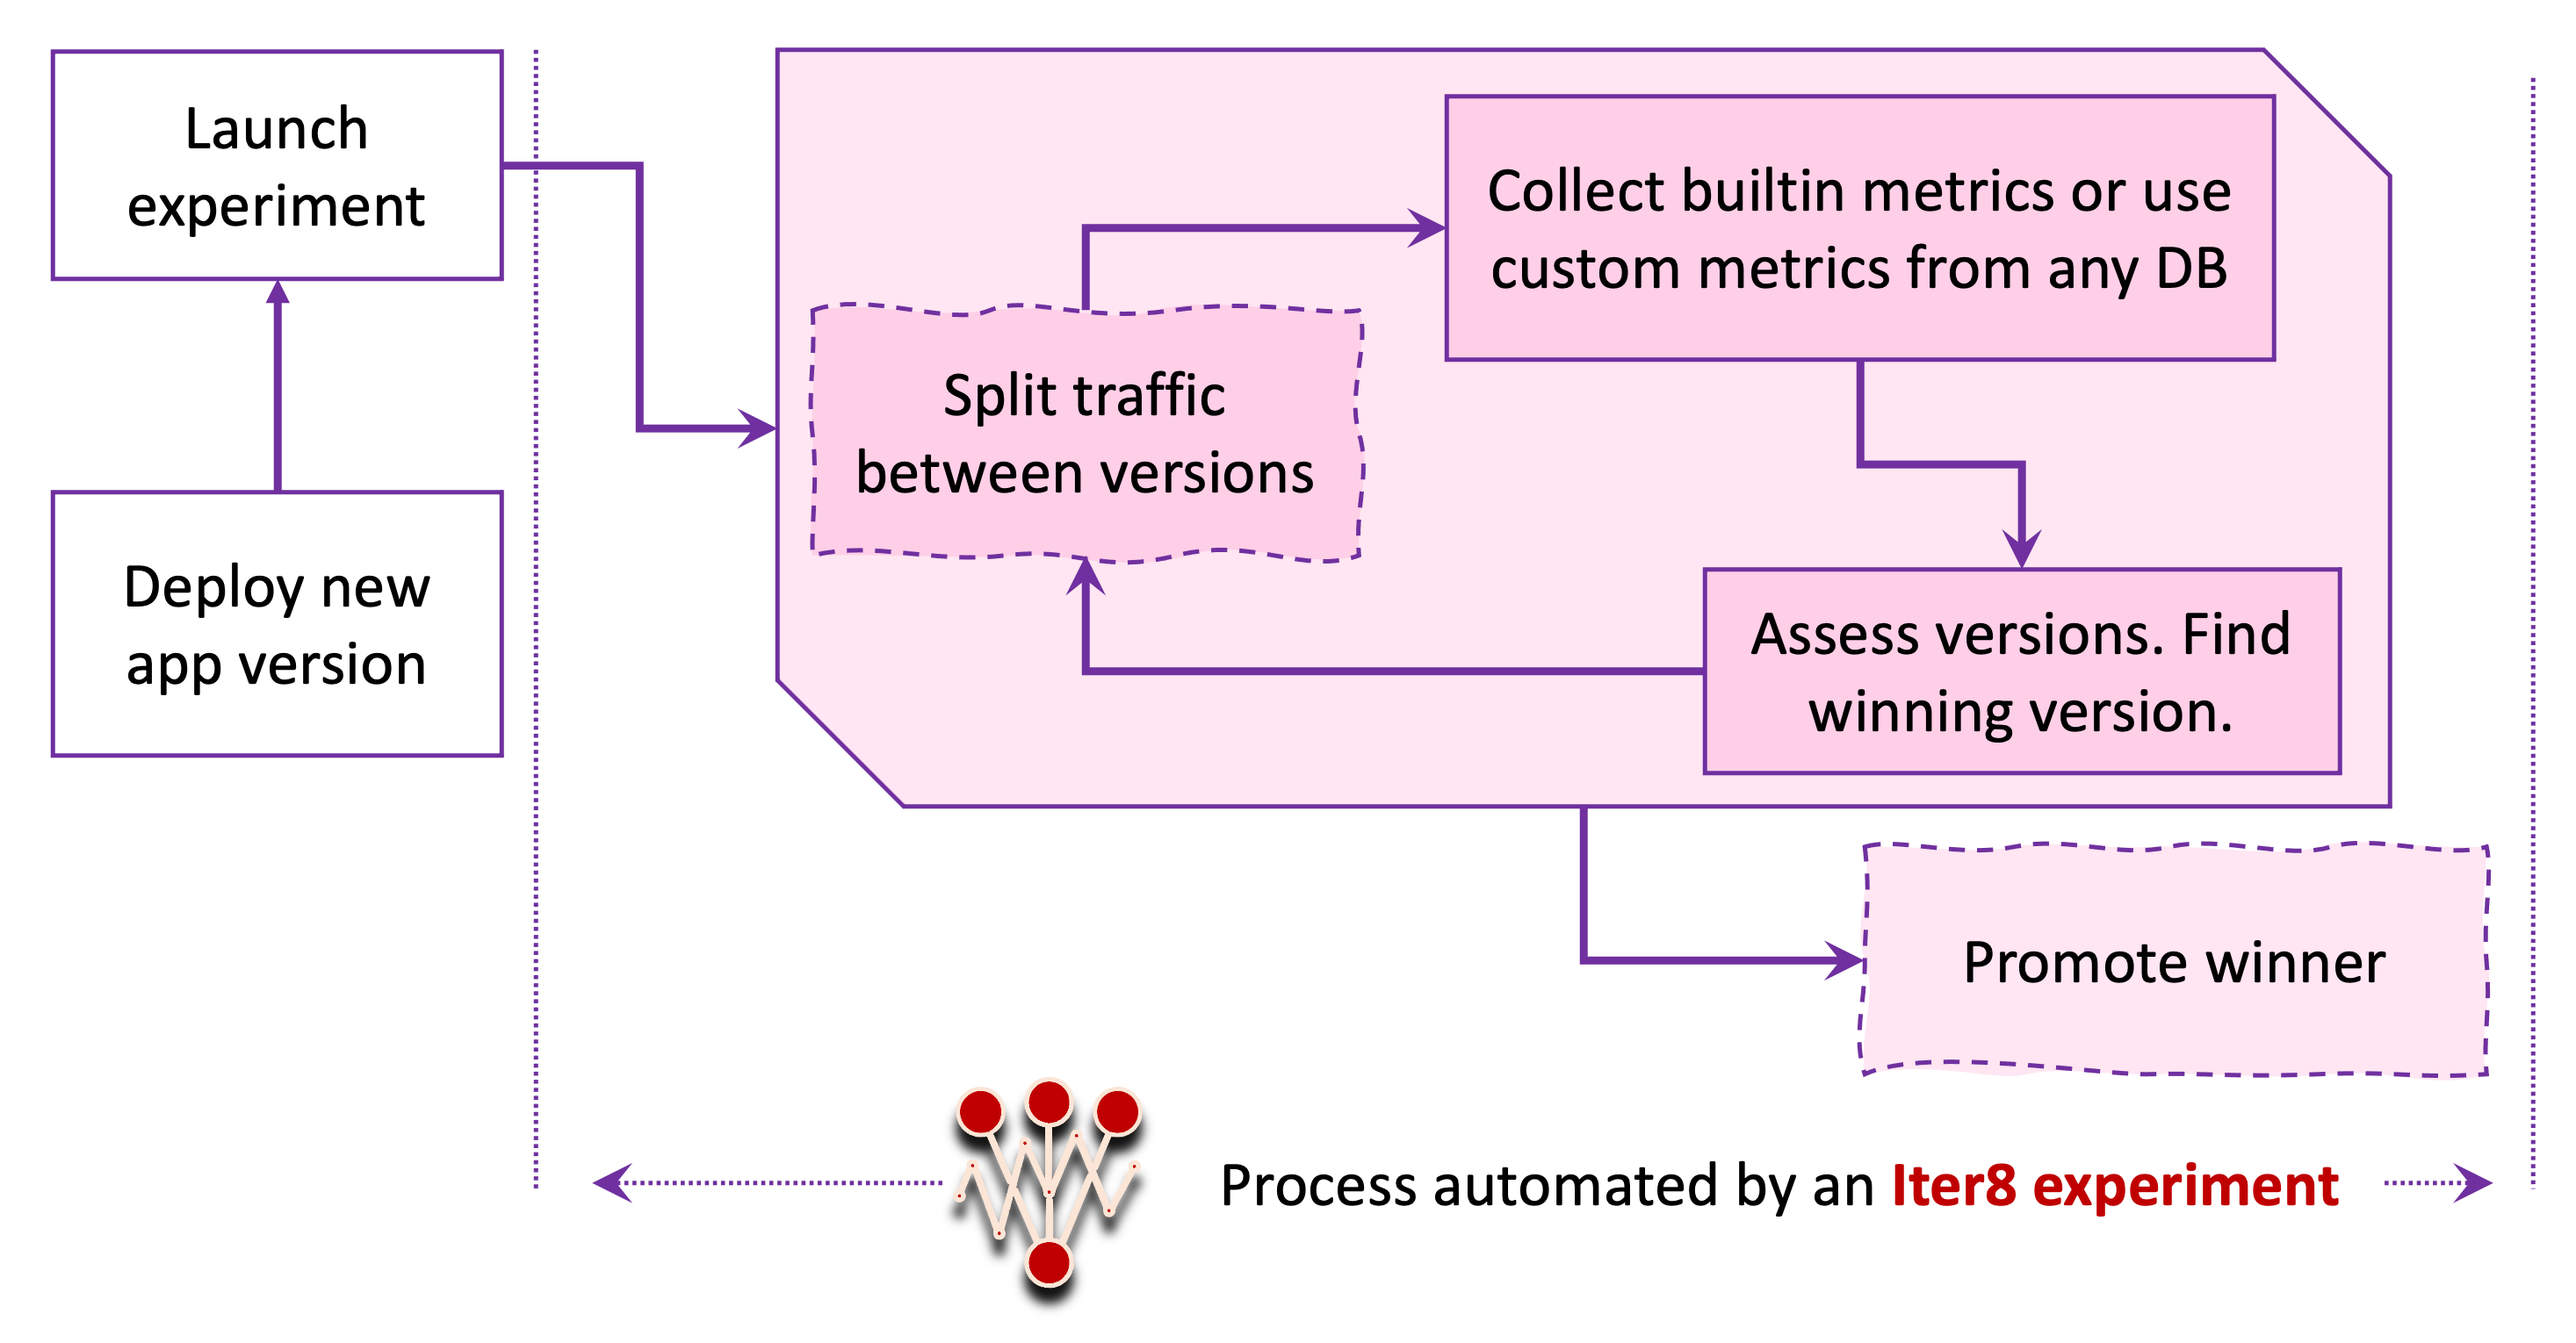
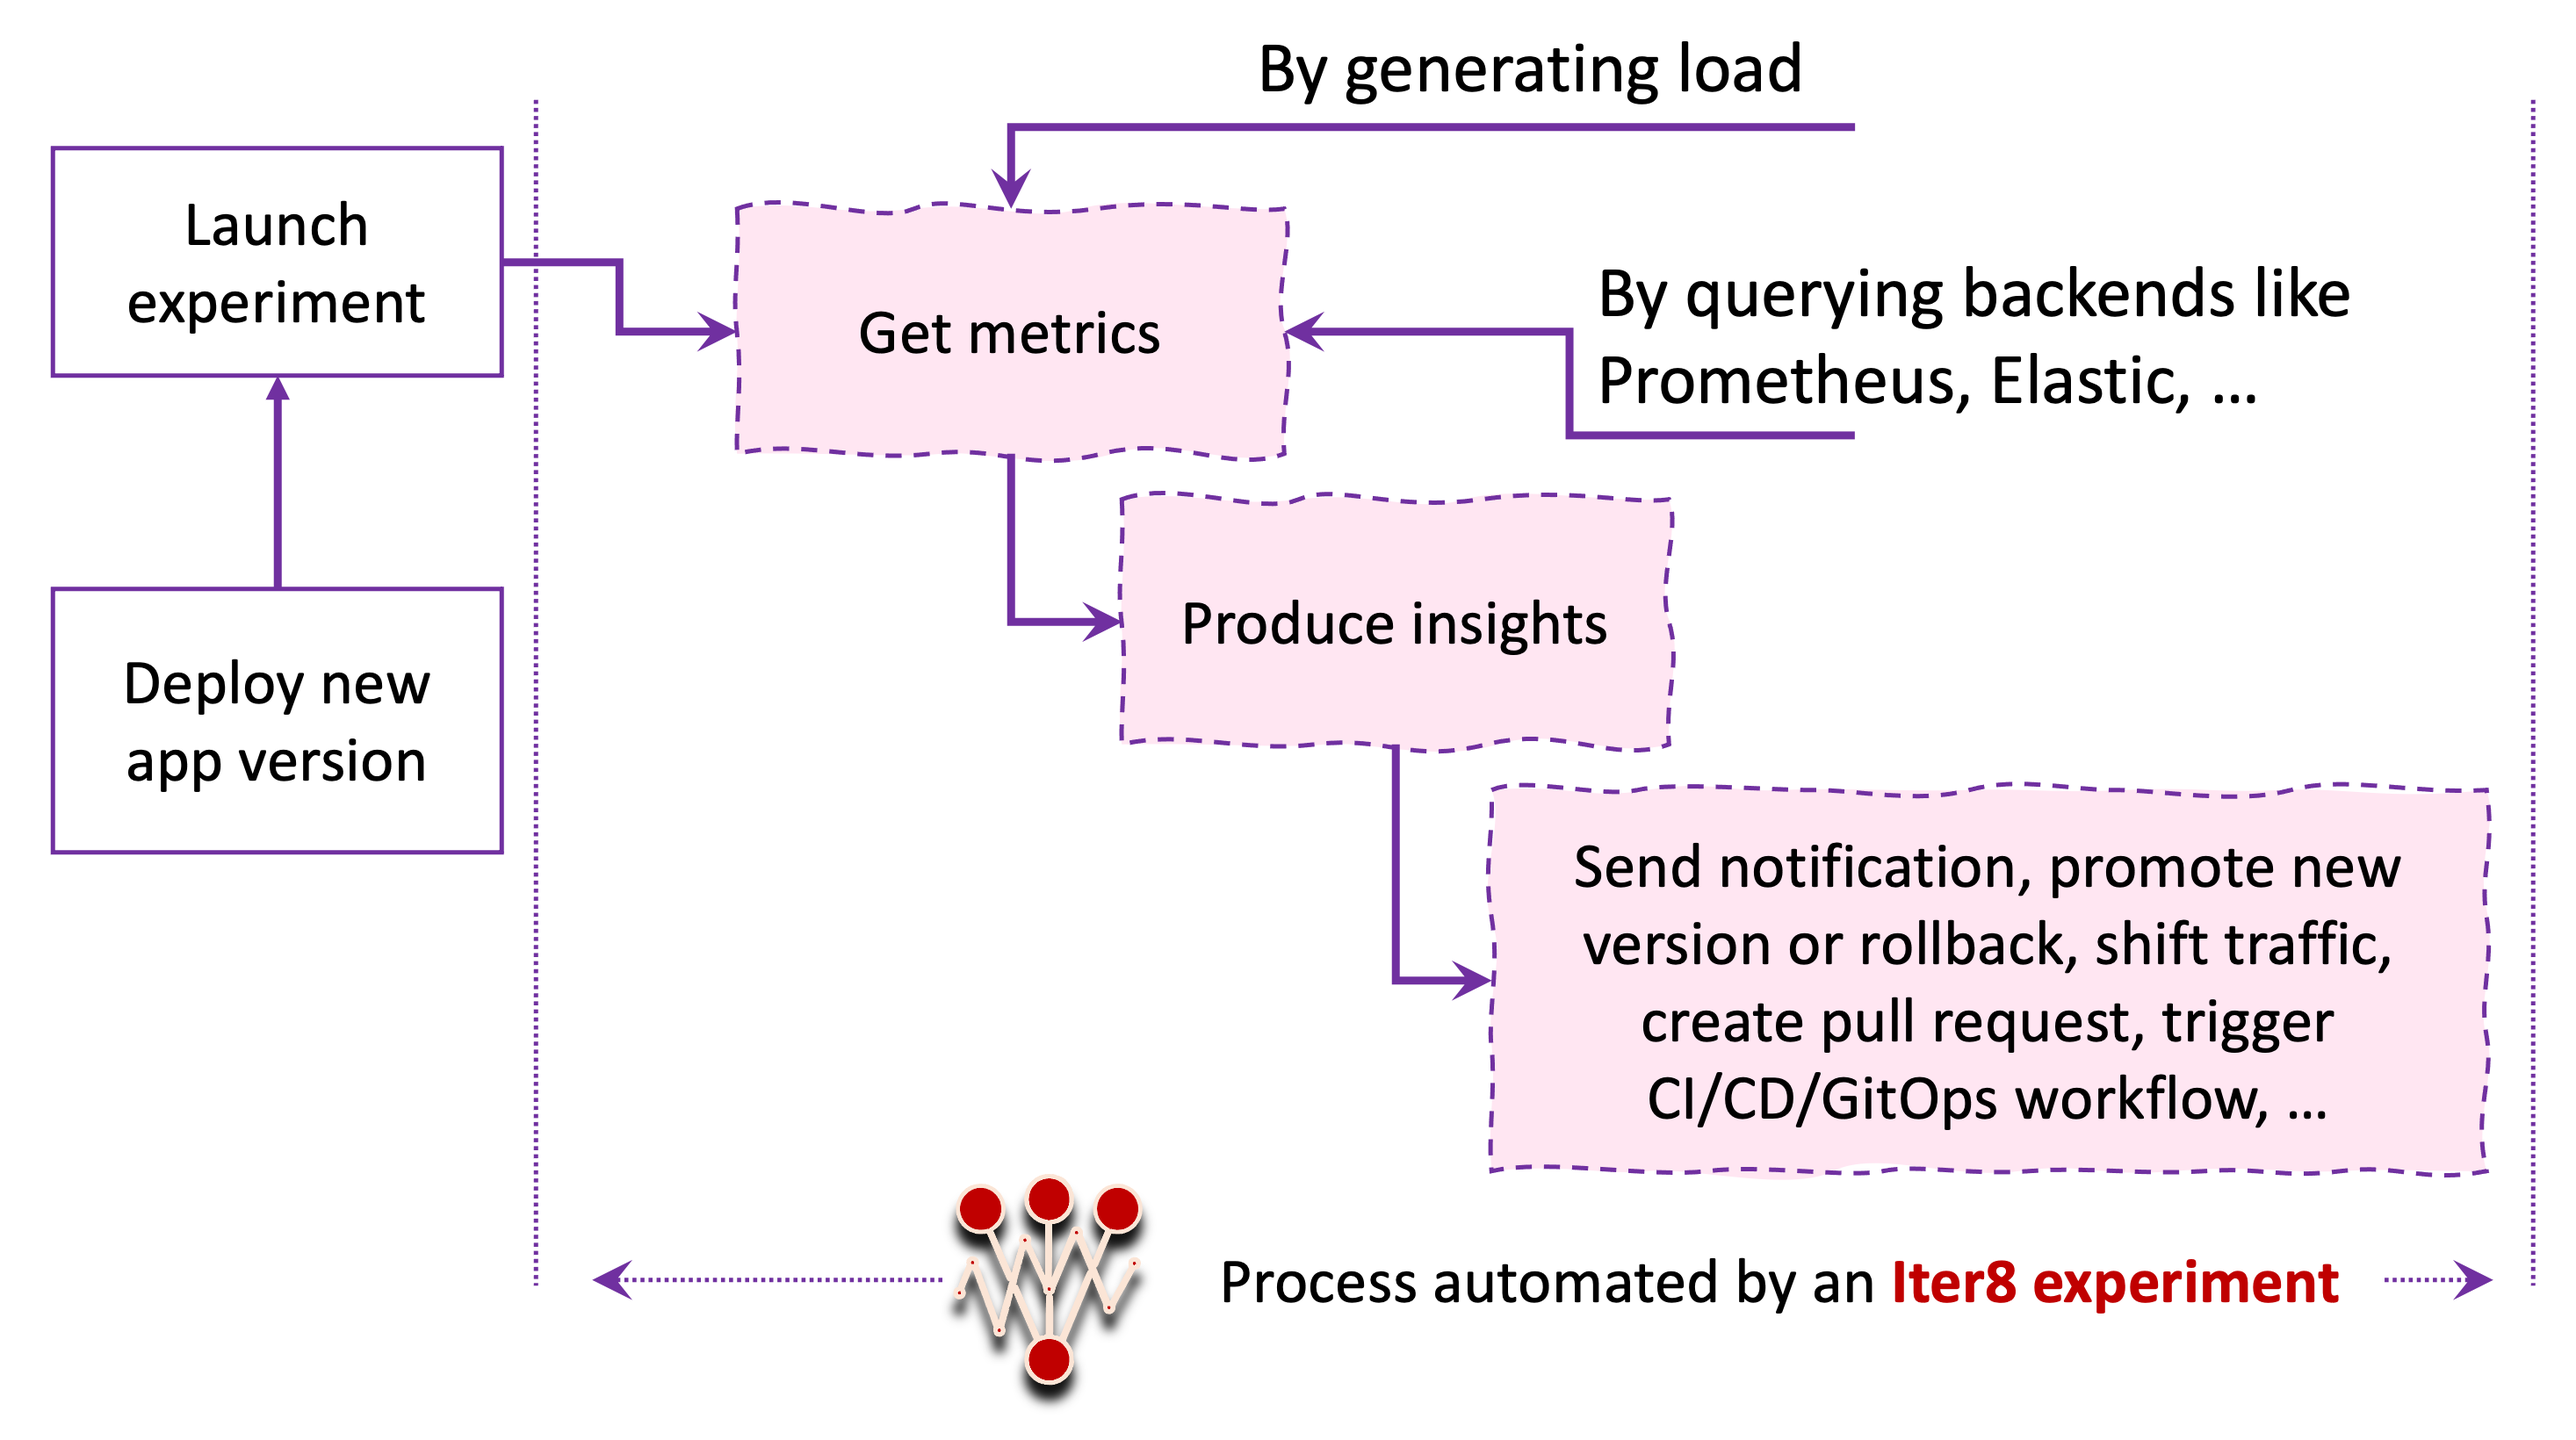
fixed up concepts

diff --git a/mkdocs/docs/getting-started/concepts.md b/mkdocs/docs/getting-started/concepts.md
@@ -20,9 +20,9 @@ The traffic engineering use-cases (4 - 7 above) are achieved by using Iter8 alon
 ## What is an Iter8 experiment?
 An Iter8 experiment is a sequence of tasks. Iter8 provides a variety of tasks for the following purposes.
 
-1.  Getting metrics
-2.  Analyzing the app (or versions of the app), and producing assessments and recommendations based on metrics
-3.  Achieving a variety of side effects such as sending a slack or HTTP notification, triggering a CI/CD/GitHub actions workflow, creating a pull request, waiting for a resource to become available or ready, and changing application state (including traffic splits) within a Kubernetes cluster.
+1.  Getting metrics for the app (or versions of the app)
+2.  Producing insights and recommendations based on metrics
+3.  Achieving a variety of useful side effects based on the insights and recommendations. Example side effects include sending a slack or HTTP notification, triggering a CI/CD/GitHub actions workflow, creating a pull request, and changing application state (including traffic splits) within a Kubernetes cluster.
 
 ![Process automated by an Iter8 experiment](../images/whatisiter8.png)
 
@@ -50,8 +50,13 @@ Experiments are specified declaratively using a simple YAML file as shown below.
 
 ## Where can I run experiments?
 
+* On your local machine
+* In a container
+* Inside Kubernetes
+* As a step in your CI/CD/GitOps pipeline.
+
 ## Can I use Iter8 with ...?
-Iter8 can be used with:
+Use Iter8 with
 
   * any app/serverless/ML framework
   * any metrics backend

diff --git a/mkdocs/docs/getting-started/v0.8.md b/mkdocs/docs/getting-started/v0.8.md
@@ -5,8 +5,8 @@ hide:
 - toc
 ---
 
-# Design considerations
+# Iter8 v0.8
+Iter8 v0.8 vastly simplifies metrics driven experiments, and introduces the ability to run Iter8 experiments on your local machine as well as in Kubernetes. Moreover, in Iter8 v0.8,  running experiments within Kubernetes does not require custom resources. Any user with permissions to create namespace-scoped resources like jobs, secrets, and configmaps can also run experiments inside the cluster.
 
-Iter8 v0.8 vastly simplifies metrics driven experiments, and introduces a way to perform experiments locally. Iter8 v0.7 will be actively maintained until v0.8 achieves feature parity with it, at which point v0.7 will be deprecated.
-
-If the features you need are yet to become available in Iter8 v0.8, we recommend using v0.7 until such time when they become available in v0.8.
+## Iter8 v0.7
+Iter8 v0.7 will be actively maintained until v0.8 achieves feature parity with it, at which point v0.7 will be deprecated.
